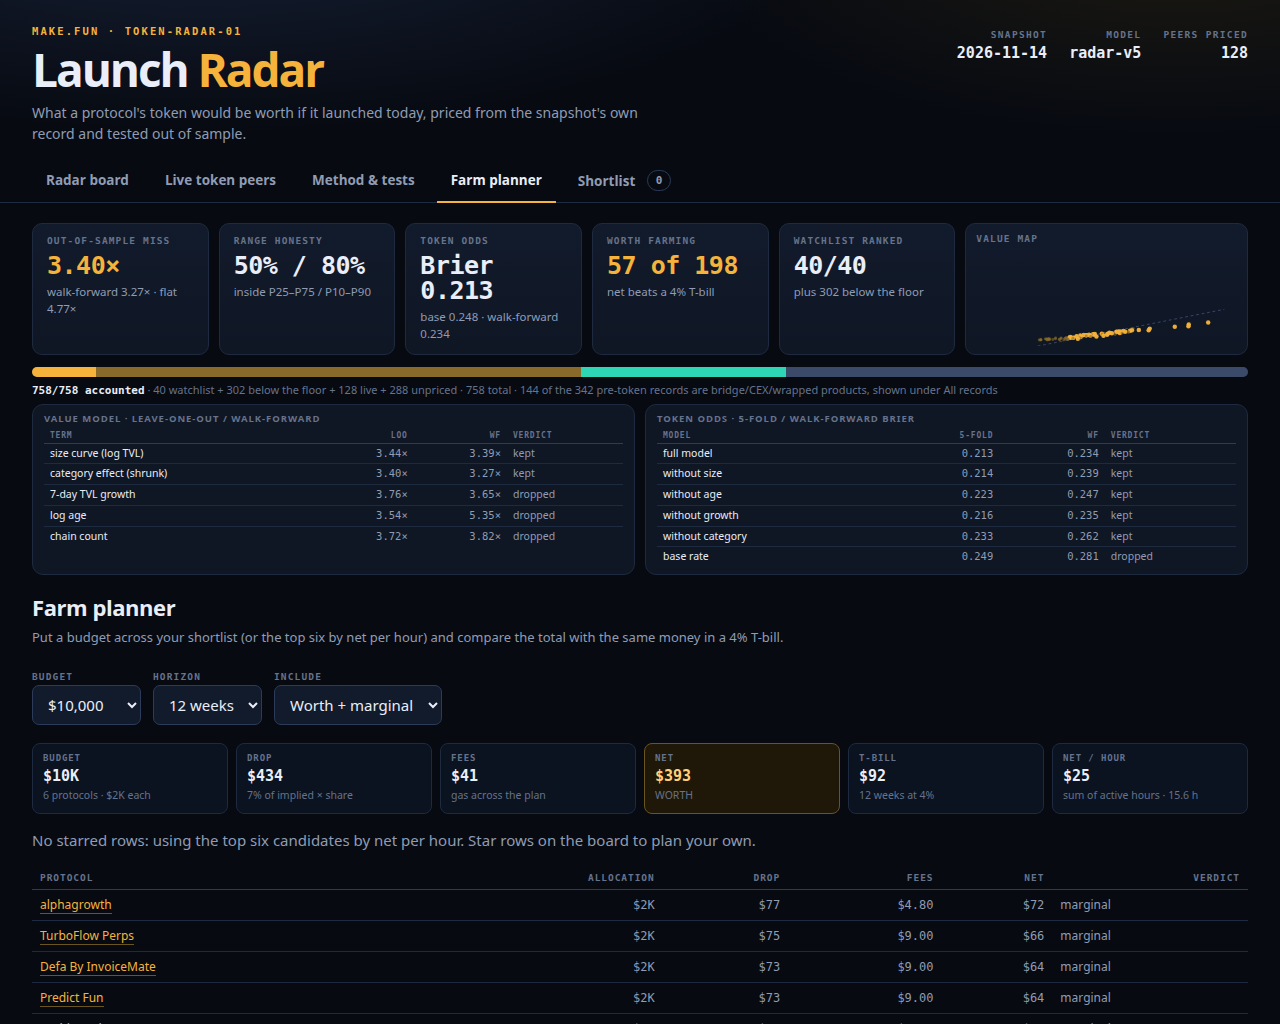
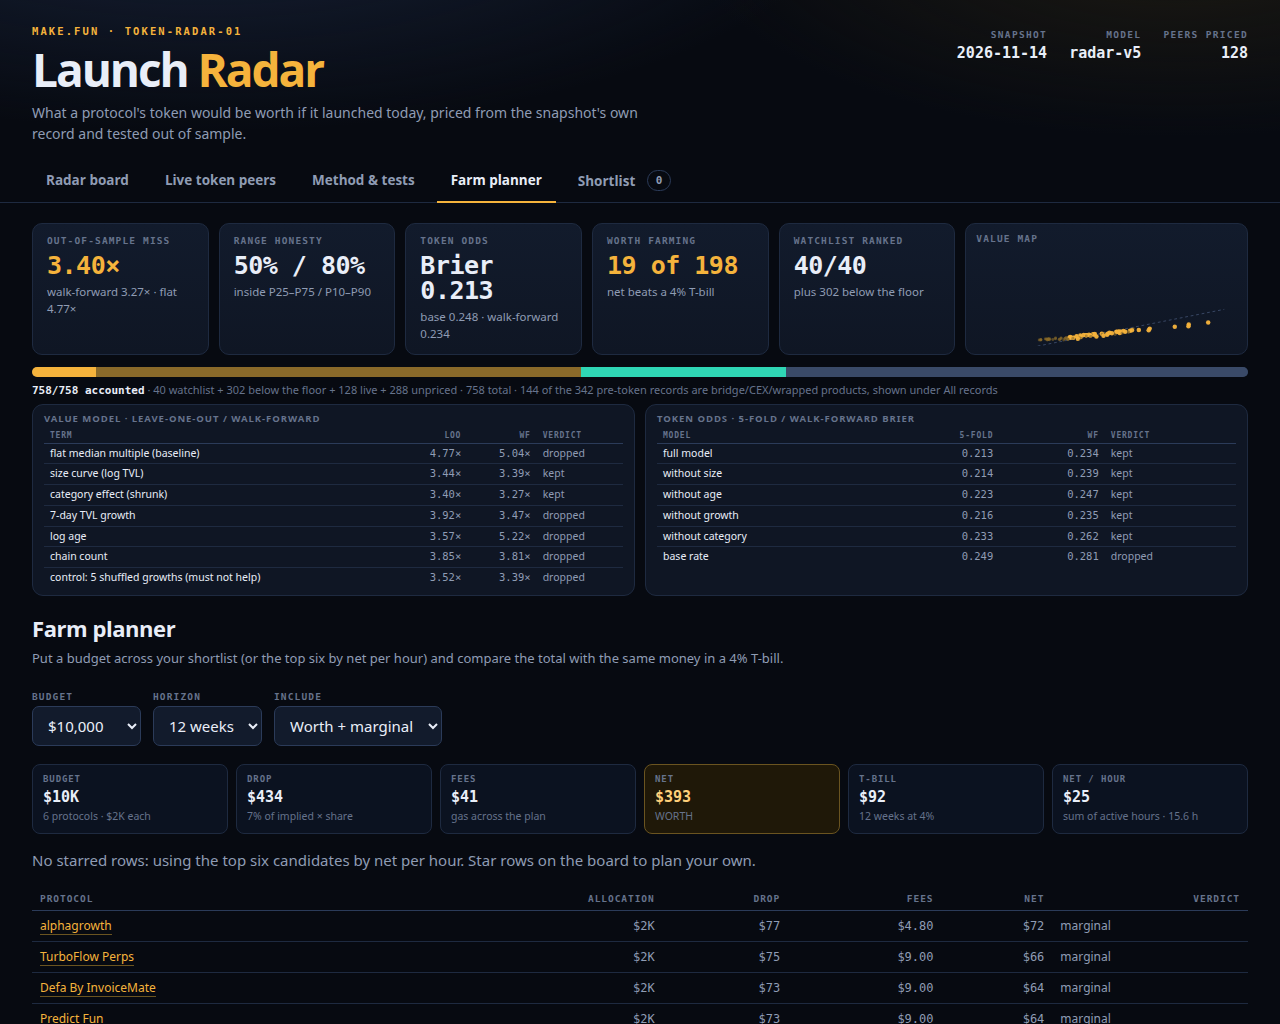
Test value terms in order with a shuffled-growth control and tighten the farm verdict
Add the flat baseline, test each extra term against the kept model, and
report a five-shuffle growth control that must not help. Raise the farm
verdict to odds >= 0.75 in both the model and the planner, and replace
the filtered screenshot with the 19 worth farms. Source 65,535 bytes.

diff --git a/lib/valuation.ts b/lib/valuation.ts
@@ -445,7 +445,7 @@ const farmPlan = (p: Protocol, implied: number, age: number | null, candidate: b
   const drop = Math.max(0, round(implied * DROP_SHARE * (PLAN_SIZE / p.tvl), 2));
   const net = round(drop - fees, 2);
   const benchmark = round(PLAN_SIZE * BENCHMARK_RATE * (HORIZON_WEEKS / 52), 2);
-  const verdict: Row['plan']['verdict'] = net > benchmark && odds >= 0.5 ? 'worth' : net > 0 ? 'marginal' : 'skip';
+  const verdict: Row['plan']['verdict'] = net > benchmark && odds >= 0.75 ? 'worth' : net > 0 ? 'marginal' : 'skip';
   const steps: PlanStep[] = [
     { action: `Fund a fresh wallet with $${PLAN_SIZE.toLocaleString('en-US')} plus about $${fees} for fees; keep the seed offline.`, cost: `$${PLAN_SIZE.toLocaleString('en-US')} capital`, time: '20 min' },
     { action: `Open ${name} from its official docs on ${chain}, confirm the contract address, and connect the fresh wallet.`, cost: `~$${gas} gas`, time: '10 min' },
@@ -496,31 +496,56 @@ export const buildRadar = (snapshot: Snapshot): Radar => {
   const live = snapshot.protocols.filter((p) => !isPreToken(p) && p.mcap !== null && p.mcap > 0 && p.tvl > 0);
   const watch = new Set(snapshot.watchlist);
 
-  // value model: size curve plus a heavily shrunk category effect; the rest tested and dropped
+  // value model: terms added in order, kept only when both blind tests improve
   const baselineLoo = valueLoo(live, []);
   const baselineWf = valueWalkForward(live, []);
-  const valueTerms: { term: ValueTerm; label: string; note: string }[] = [
-    { term: 'size', label: 'size curve (log TVL)', note: 'kept: sharpest cut in both tests' },
-    { term: 'category', label: 'category effect (shrunk)', note: 'kept: small improvement in both tests with a 20-protocol prior' },
-    { term: 'growth', label: '7-day TVL growth', note: 'not kept: worse in both tests; enters through the odds model' },
-    { term: 'age', label: 'log age', note: 'not kept: worse in both tests; enters through the odds model' },
-    { term: 'chains', label: 'chain count', note: 'not kept: no improvement in either test' },
+  const valueTermChecks: TermCheck[] = [
+    { term: 'flat median multiple (baseline)', loo: round(baselineLoo, 3), wf: round(baselineWf, 3), kept: false, note: 'baseline: no value term' },
   ];
-  const valueTermChecks: TermCheck[] = valueTerms.map((t) => {
-    const terms: ValueTerm[] = t.term === 'size' ? ['size'] : ['size', t.term];
+  const sizeLoo = valueLoo(live, ['size']);
+  const sizeWf = valueWalkForward(live, ['size']);
+  valueTermChecks.push({ term: 'size curve (log TVL)', loo: round(sizeLoo, 3), wf: round(sizeWf, 3), kept: true, note: 'kept: sharpest cut in both tests' });
+  const kept: ValueTerm[] = ['size'];
+  let keptLoo = sizeLoo;
+  let keptWf = sizeWf;
+  const categoryLoo = valueLoo(live, ['size', 'category']);
+  const categoryWf = valueWalkForward(live, ['size', 'category']);
+  const categoryKept = categoryLoo <= keptLoo && categoryWf <= keptWf;
+  valueTermChecks.push({ term: 'category effect (shrunk)', loo: round(categoryLoo, 3), wf: round(categoryWf, 3), kept: categoryKept, note: 'kept only when both blind tests improve with a 20-protocol prior' });
+  if (categoryKept) {
+    kept.push('category');
+    keptLoo = categoryLoo;
+    keptWf = categoryWf;
+  }
+  const extraTerms: { term: ValueTerm; label: string; note: string }[] = [
+    { term: 'growth', label: '7-day TVL growth', note: 'kept only when both blind tests improve; enters the odds model either way' },
+    { term: 'age', label: 'log age', note: 'kept only when both blind tests improve; enters the odds model either way' },
+    { term: 'chains', label: 'chain count', note: 'kept only when both blind tests improve' },
+  ];
+  for (const extra of extraTerms) {
+    const terms: ValueTerm[] = [...kept, extra.term];
     const loo = valueLoo(live, terms);
     const wf = valueWalkForward(live, terms);
-    return { term: t.label, loo: round(loo, 3), wf: round(wf, 3), kept: false, note: t.note };
-  });
-  const sizeCheck = valueTermChecks.find((c) => c.term === 'size curve (log TVL)')!;
-  for (const check of valueTermChecks) {
-    check.kept = check === sizeCheck || (check.loo <= sizeCheck.loo && check.wf <= sizeCheck.wf);
+    const isKept = loo <= keptLoo && wf <= keptWf;
+    valueTermChecks.push({ term: extra.label, loo: round(loo, 3), wf: round(wf, 3), kept: isKept, note: extra.note });
+    if (isKept) {
+      kept.push(extra.term);
+      keptLoo = loo;
+      keptWf = wf;
+    }
   }
-  const value = fitValue(live, ['size', 'category']);
+  const controlRuns = [37, 53, 71, 89, 107].map((shift) => {
+    const control = live.map((p, i) => ({ ...p, ch7: live[(i + shift) % live.length]?.ch7 ?? p.ch7 }));
+    return [valueLoo(control, [...kept, 'growth']), valueWalkForward(control, [...kept, 'growth'])] as [number, number];
+  });
+  const controlLoo = median(controlRuns.map(([loo]) => loo));
+  const controlWf = median(controlRuns.map(([, wf]) => wf));
+  valueTermChecks.push({ term: 'control: 5 shuffled growths (must not help)', loo: round(controlLoo, 3), wf: round(controlWf, 3), kept: false, note: 'must not help: shuffled growth is noise' });
+  const value = fitValue(live, kept);
   const looResiduals: number[] = [];
   const looPairs: [number, number][] = [];
   for (let i = 0; i < live.length; i++) {
-    const model = fitValue(live.filter((_, j) => j !== i), ['size', 'category']);
+    const model = fitValue(live.filter((_, j) => j !== i), kept);
     const p = live[i]!;
     const est = model.predict(p);
     looPairs.push([est, p.mcap!]);
@@ -544,7 +569,7 @@ export const buildRadar = (snapshot: Snapshot): Radar => {
     intercept: round(intercept, 3),
     multipleAt100m: round(Math.exp(intercept + slope * Math.log(1e8)), 3),
     loo: round(medianFactor(looPairs), 3),
-    wf: round(valueWalkForward(live, ['size', 'category']), 3),
+    wf: round(valueWalkForward(live, kept), 3),
     baselineLoo: round(baselineLoo, 3),
     baselineWf: round(baselineWf, 3),
     bands,

diff --git a/dashboard/app.js b/dashboard/app.js
@@ -42,7 +42,7 @@
     var z = c[0] + c[1] * (size === undefined ? row.oddsInput.size : size) + c[2] * Math.log(1 + ageDays / 365) + c[3] * growth + c[4] * row.oddsInput.categoryRate;
     return 1 / (1 + Math.exp(-z));
   }
-  function verdictOf(net, odds, benchmark) { return net > benchmark && odds >= 0.5 ? 'worth' : net > 0 ? 'marginal' : 'skip'; }
+  function verdictOf(net, odds, benchmark) { return net > benchmark && odds >= 0.75 ? 'worth' : net > 0 ? 'marginal' : 'skip'; }
   function farm(row, pos, horizon) {
     horizon = horizon || 12;
     var drop = row.implied * R.model.dropShare * (pos / row.tvl);
